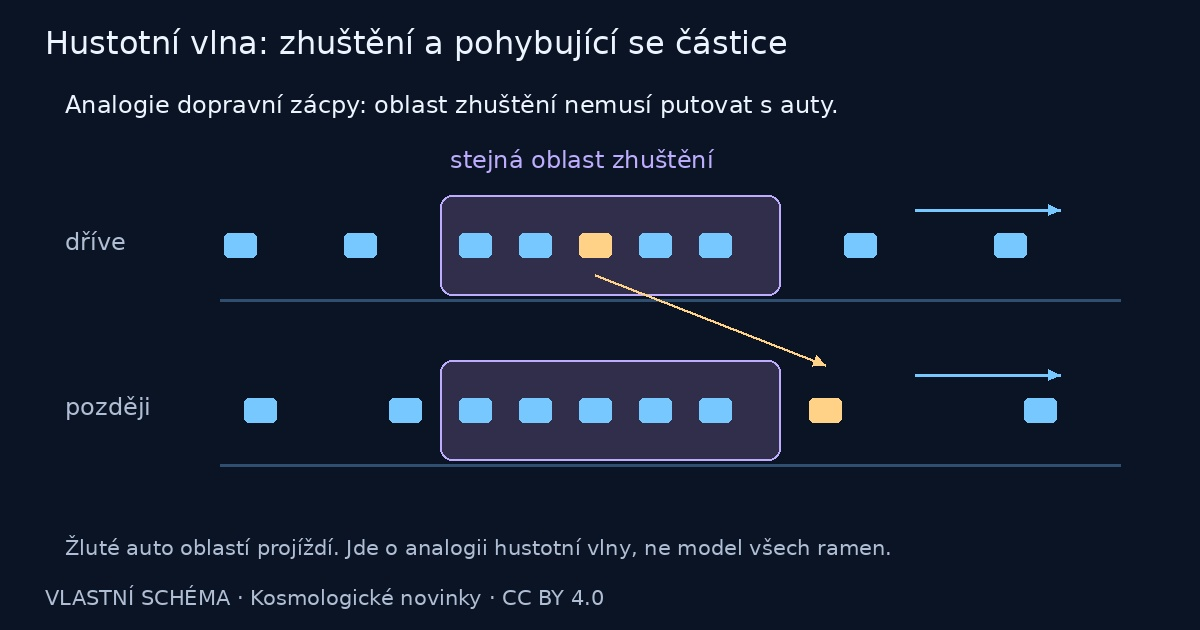
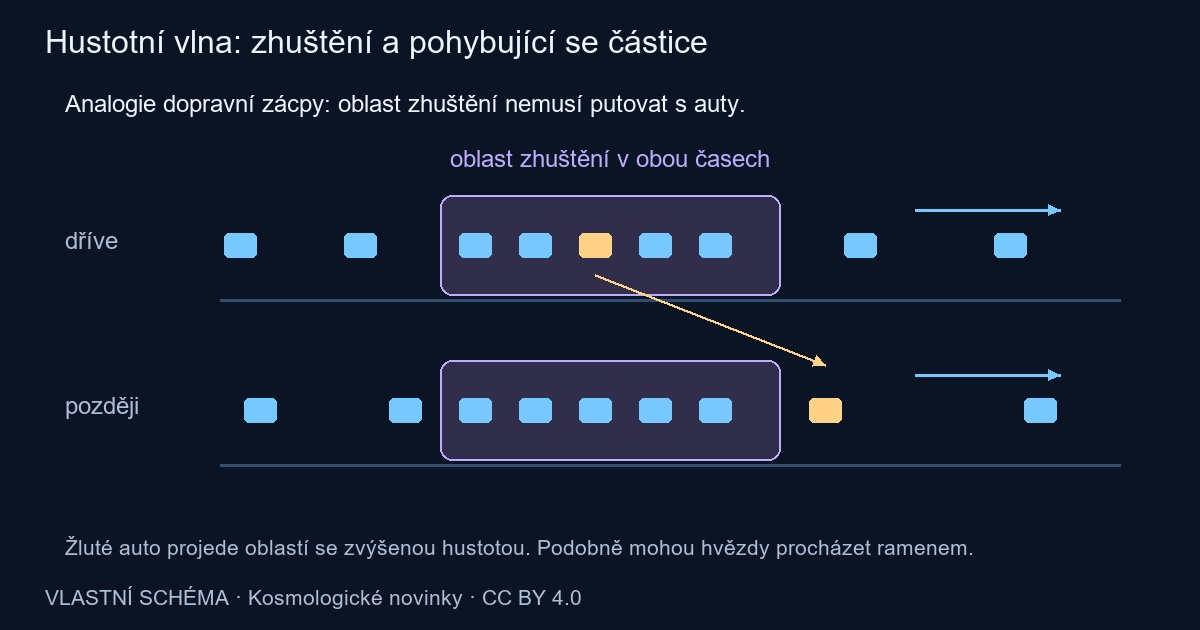
Add files via upload

diff --git a/assets/kosmopedie/galakticke-okoli.html b/assets/kosmopedie/galakticke-okoli.html
@@ -4,7 +4,7 @@
 </style></head><body><main><a href="/kosmopedie/ktere-galaxie-a-kupy-tvori-nase-kosmicke-okoli.html">← Zpět k tématu v Kosmopedii</a><h1>Naše galaktické okolí v prostoru</h1><p>Otáčejte mapou tažením myší či prstem. Přepínač měřítka přiblíží blízké průvodce Mléčné dráhy, Místní skupinu nebo širší okolí.</p>
 <div class="controls"><label>Měřítko <select id="view"><option value="satellite">Magellanova oblaka</option><option value="local" selected>Místní skupina</option><option value="wide">Širší okolí</option></select></label><label>Přiblížení <input id="zoom" type="range" min="0.6" max="2.2" step="0.1" value="1"></label><button id="left" aria-label="Otočit pohled doleva">← Otočit</button><button id="right" aria-label="Otočit pohled doprava">Otočit →</button><button id="reset">Výchozí pohled</button></div>
 <div class="canvas-box"><canvas id="map" role="img" aria-label="Prostorová mapa vybraných galaxií. Stejné objekty a vzdálenosti jsou uvedené v tabulce pod mapou."></canvas></div><p id="selection" aria-live="polite">Kliknutím na bod zobrazíte jeho název a vzdálenost.</p>
-<div class="legend"><span style="--c:#ffd287">Slunce / naše místo v Mléčné dráze</span><span style="--c:#8de0b1">Magellanova oblaka</span><span style="--c:#7dcfff">Další galaxie</span></div>
+<div class="legend"><span style="--c:#ffd287">Slunce v Mléčné dráze</span><span style="--c:#8de0b1">Magellanova oblaka</span><span style="--c:#7dcfff">Další galaxie</span></div>
 <p class="muted">Všechny osy mají stejné délkové měřítko. Jednotka: milion světelných let. X míří ke středu Mléčné dráhy, Y podél její roviny k délce 90°, Z k severnímu galaktickému pólu. Počátek souřadnic je u Slunce. Pohled zobrazuje polohy vybraných objektů; velikost značek je názorná. Skupiny zastupují uvedené referenční galaxie, kupu v Panně směr M87.</p>
 <p>Mapa ukazuje vybrané galaxie pro základní orientaci. Z přibližně stovky známých členů Místní skupiny zobrazuje tři velké galaxie a oba Magellanovy oblaky. Většinu menších členů jsme pro přehlednost vynechali, protože jejich body a popisky by se zejména kolem Mléčné dráhy a Andromedy překrývaly. Magellanova oblaka si můžete prohlédnout v samostatném přiblížení.</p><p>V širším okolí každou znázorněnou skupinu či kupu zastupuje uvedená referenční galaxie. <a href="https://blogs.helsinki.fi/hakkijen/files/2025/05/Virgo25_slides_JH.pdf">Zdroj přibližného počtu členů Místní skupiny</a>.</p><h2>Vybrané objekty a vzdálenosti</h2><div class="tablebox"><table><thead><tr><th>Objekt</th><th>Vzdálenost od Slunce (mil. sv. let)</th><th>Zdroj vzdálenosti</th></tr></thead><tbody id="rows"></tbody></table></div><p class="muted">Zaokrouhlené vzdálenosti a katalogové směry; podklad sestaven 30. 10. 2026. <a href="/data/local-universe-2026-10-30.json">Datový soubor a metodika</a>. Vlastní zobrazení Kosmologických novinek, CC BY 4.0.</p><noscript><p>Pro otáčení mapy zapněte JavaScript. Vzdálenosti i statické mapy jsou také v <a href="/kosmopedie/ktere-galaxie-a-kupy-tvori-nase-kosmicke-okoli.html">původním tématu</a>.</p></noscript></main>
 <script id="map-data" type="application/json">{"galaxies": [{"name": "Velký Magellanův oblak", "ra_deg": 80.894, "dec_deg": -69.756, "distance_mly": 0.163, "kind": "satellite", "xyz_mly": [0.024861657442173668, -0.13459901093712442, -0.08850991043212011], "distance_source": "https://svs.gsfc.nasa.gov/11293", "coordinate_source": "https://simbad.u-strasbg.fr/simbad/sim-id?Ident=Large+Magellanic+Cloud"}, {"name": "Malý Magellanův oblak", "ra_deg": 13.158333333333333, "dec_deg": -72.80027777777778, "distance_mly": 0.2, "kind": "satellite", "xyz_mly": [0.07752035237279574, -0.12024939067929719, -0.1397522057387905], "distance_source": "https://svs.gsfc.nasa.gov/11293", "coordinate_source": "https://simbad.u-strasbg.fr/simbad/sim-id?Ident=Small+Magellanic+Cloud"}, {"name": "Andromeda (M31)", "ra_deg": 10.6847, "dec_deg": 41.2687, "distance_mly": 2.5, "kind": "local", "xyz_mly": [-1.2034532128505475, 1.989149453563244, -0.9192305562567965], "distance_source": "https://science.nasa.gov/mission/hubble/science/explore-the-night-sky/hubble-messier-catalog/messier-31/", "coordinate_source": "https://simbad.u-strasbg.fr/simbad/sim-id?Ident=M31"}, {"name": "Galaxie v Trojúhelníku (M33)", "ra_deg": 23.4621, "dec_deg": 30.6602, "distance_mly": 3.0, "kind": "local", "xyz_mly": [-1.7675100119050247, 1.8554060270789865, -1.5599284700546558], "distance_source": "https://science.nasa.gov/mission/hubble/science/explore-the-night-sky/hubble-messier-catalog/messier-33/", "coordinate_source": "https://simbad.u-strasbg.fr/simbad/sim-id?Ident=M33"}, {"name": "M81 – okolí skupiny M81", "ra_deg": 148.8882, "dec_deg": 69.0653, "distance_mly": 11.6, "kind": "group", "xyz_mly": [-6.9178365604196355, 5.386975771496113, 7.595000286745091], "distance_source": "https://science.nasa.gov/mission/hubble/science/explore-the-night-sky/hubble-messier-catalog/messier-81/", "coordinate_source": "https://simbad.u-strasbg.fr/simbad/sim-id?Ident=M81"}, {"name": "Centaurus A – okolní skupina", "ra_deg": 201.3651, "dec_deg": -43.0191, "distance_mly": 12.0, "kind": "group", "xyz_mly": [7.201222730192238, -8.730836043493222, 3.989347460491544], "distance_source": "https://www.chandra.si.edu/photo/2023/cena/index.html", "coordinate_source": "https://simbad.u-strasbg.fr/simbad/sim-id?Ident=NGC5128"}, {"name": "NGC 253 – oblast Sochaře", "ra_deg": 11.888, "dec_deg": -25.288, "distance_mly": 11.4, "kind": "group", "xyz_mly": [-0.05197254631520831, 0.40170393691412154, -11.392801797560825], "distance_source": "https://www.chandra.cfa.harvard.edu/photo/2023/ngc253/", "coordinate_source": "https://simbad.u-strasbg.fr/simbad/sim-id?Ident=NGC253"}, {"name": "Kupa v Panně – směr M87", "ra_deg": 187.7059, "dec_deg": 12.3911, "distance_mly": 54.0, "kind": "cluster", "xyz_mly": [3.4387004620893475, -14.02348415228738, 52.033808541078535], "distance_source": "https://science.nasa.gov/asset/hubble/hubble-acs-image-of-100-virgo-cluster-galaxies/", "coordinate_source": "https://simbad.u-strasbg.fr/simbad/sim-id?Ident=M87"}]}</script><script>
@@ -17,9 +17,9 @@ function draw(){const w=canvas.clientWidth,h=canvas.clientHeight,dpr=devicePixel
 function project(v){const [x,y,z]=v,a=x*Math.cos(yaw)-y*Math.sin(yaw),b=x*Math.sin(yaw)+y*Math.cos(yaw);return [w*.5+a*scale,h*.50+(b*Math.sin(pitch)-z*Math.cos(pitch))*scale]}
 const occupied=[];ctx.lineWidth=1;ctx.font='13px system-ui';ctx.textBaseline='middle';ctx.strokeStyle='#43536b';
 for(let i=0;i<3;i++){const a=[0,0,0],b=[0,0,0];a[i]=-limit;b[i]=limit;const p=project(a),q=project(b);ctx.beginPath();ctx.moveTo(...p);ctx.lineTo(...q);ctx.stroke();ctx.fillStyle='#7dcfff';ctx.fillText(['X','Y','Z'][i],q[0]+5,q[1]);occupied.push({x:q[0]+3,y:q[1]-8,w:16,h:16});for(const t of [-.5,.5]){a[i]=limit*t;const u=project(a);ctx.fillStyle='#bac8db';ctx.fillText(fmt(limit*t),u[0]+4,u[1]+12);occupied.push({x:u[0]+2,y:u[1]+4,w:ctx.measureText(fmt(limit*t)).width+4,h:16})}}
-let rows=data.galaxies.filter(a=>view.value==='satellite'?a.kind==='satellite':view.value==='local'?['satellite','local'].includes(a.kind):['group','cluster'].includes(a.kind));rows=[{name:'Slunce / Mléčná dráha',xyz_mly:[0,0,0],distance_mly:0,kind:'origin'},...rows];points=[];
-for(const [i,a] of rows.entries()){const [x,y]=project(a.xyz_mly);ctx.strokeStyle='#263c55';ctx.beginPath();ctx.moveTo(w*.5,h*.5);ctx.lineTo(x,y);ctx.stroke();ctx.fillStyle=a.kind==='origin'?'#ffd287':a.kind==='satellite'?'#8de0b1':'#7dcfff';ctx.beginPath();ctx.arc(x,y,6,0,Math.PI*2);ctx.fill();points.push({x,y,a});ctx.font='14px system-ui';if(view.value==='local'&&a.kind==='satellite')continue;const label=a.name.replace('Slunce / Mléčná dráha','Naše místo').replace('Galaxie v Trojúhelníku (M33)','M33').replace('Velký Magellanův oblak','Velký oblak').replace('Malý Magellanův oblak','Malý oblak').split(' – ')[0];const tw=ctx.measureText(label).width;let lx,ly;outer:for(const rr of [24,48,72,96,120,144]){for(const sign of [1,-1]){for(const dy of [-rr,rr,0]){const xx=Math.max(8,Math.min(w-tw-8,x+sign*(rr+8)-(sign<0?tw:0))),yy=Math.max(38,Math.min(h-25,y+dy));if(occupied.some(b=>xx<b.x+b.w+8&&xx+tw+8>b.x&&yy-9<b.y+b.h+8&&yy+9>b.y))continue;lx=xx;ly=yy;break outer}}}if(lx===undefined){lx=8;ly=42+i*24}occupied.push({x:lx,y:ly-9,w:tw,h:18});ctx.strokeStyle='#61748b';ctx.beginPath();ctx.moveTo(x,y);ctx.lineTo(Math.max(lx,Math.min(lx+tw,x)),ly);ctx.stroke();ctx.fillStyle='#0b1424';ctx.fillRect(lx-3,ly-10,tw+6,20);ctx.fillStyle=a.kind==='origin'?'#ffd287':a.kind==='satellite'?'#8de0b1':'#7dcfff';ctx.fillText(label,lx,ly)}
+let rows=data.galaxies.filter(a=>view.value==='satellite'?a.kind==='satellite':view.value==='local'?['satellite','local'].includes(a.kind):['group','cluster'].includes(a.kind));rows=[{name:'Slunce v Mléčné dráze',xyz_mly:[0,0,0],distance_mly:0,kind:'origin'},...rows];points=[];
+for(const [i,a] of rows.entries()){const [x,y]=project(a.xyz_mly);ctx.strokeStyle='#263c55';ctx.beginPath();ctx.moveTo(w*.5,h*.5);ctx.lineTo(x,y);ctx.stroke();ctx.fillStyle=a.kind==='origin'?'#ffd287':a.kind==='satellite'?'#8de0b1':'#7dcfff';ctx.beginPath();ctx.arc(x,y,6,0,Math.PI*2);ctx.fill();points.push({x,y,a});ctx.font='14px system-ui';if(view.value==='local'&&a.kind==='satellite')continue;const label=(a.kind==='origin'?'Slunce':a.name).replace('Galaxie v Trojúhelníku (M33)','M33').replace('Velký Magellanův oblak','Velký oblak').replace('Malý Magellanův oblak','Malý oblak').split(' – ')[0];const tw=ctx.measureText(label).width;let lx,ly;outer:for(const rr of [24,48,72,96,120,144]){for(const sign of [1,-1]){for(const dy of [-rr,rr,0]){const xx=Math.max(8,Math.min(w-tw-8,x+sign*(rr+8)-(sign<0?tw:0))),yy=Math.max(38,Math.min(h-25,y+dy));if(occupied.some(b=>xx<b.x+b.w+8&&xx+tw+8>b.x&&yy-9<b.y+b.h+8&&yy+9>b.y))continue;lx=xx;ly=yy;break outer}}}if(lx===undefined){lx=8;ly=42+i*24}occupied.push({x:lx,y:ly-9,w:tw,h:18});ctx.strokeStyle='#61748b';ctx.beginPath();ctx.moveTo(x,y);ctx.lineTo(Math.max(lx,Math.min(lx+tw,x)),ly);ctx.stroke();ctx.fillStyle='#0b1424';ctx.fillRect(lx-3,ly-10,tw+6,20);ctx.fillStyle=a.kind==='origin'?'#ffd287':a.kind==='satellite'?'#8de0b1':'#7dcfff';ctx.fillText(label,lx,ly)}
 ctx.fillStyle='#edf4ff';ctx.font='14px system-ui';ctx.fillText('Osy: miliony světelných let',12,18);canvas.dataset.state=JSON.stringify(state())}
-canvas.addEventListener('pointerdown',e=>{drag={x:e.clientX,y:e.clientY,yaw,pitch};moved=false;canvas.setPointerCapture(e.pointerId)});canvas.addEventListener('pointermove',e=>{if(!drag)return;const dx=e.clientX-drag.x,dy=e.clientY-drag.y;if(Math.abs(dx)+Math.abs(dy)>4)moved=true;yaw=drag.yaw+dx*.008;pitch=Math.max(-1.3,Math.min(1.3,drag.pitch+dy*.008));draw()});canvas.addEventListener('pointerup',e=>{if(!moved){const box=canvas.getBoundingClientRect(),x=e.clientX-box.left,y=e.clientY-box.top;const hit=[...points].sort((a,b)=>Math.hypot(a.x-x,a.y-y)-Math.hypot(b.x-x,b.y-y))[0];if(hit&&Math.hypot(hit.x-x,hit.y-y)<25)document.getElementById('selection').textContent=hit.a.name+' — '+fmt(hit.a.distance_mly)+' milionu světelných let od nás.'}drag=null});canvas.addEventListener('pointercancel',()=>drag=null);
+canvas.addEventListener('pointerdown',e=>{drag={x:e.clientX,y:e.clientY,yaw,pitch};moved=false;canvas.setPointerCapture(e.pointerId)});canvas.addEventListener('pointermove',e=>{if(!drag)return;const dx=e.clientX-drag.x,dy=e.clientY-drag.y;if(Math.abs(dx)+Math.abs(dy)>4)moved=true;yaw=drag.yaw+dx*.008;pitch=Math.max(-1.3,Math.min(1.3,drag.pitch+dy*.008));draw()});canvas.addEventListener('pointerup',e=>{if(!moved){const box=canvas.getBoundingClientRect(),x=e.clientX-box.left,y=e.clientY-box.top;const hit=[...points].sort((a,b)=>Math.hypot(a.x-x,a.y-y)-Math.hypot(b.x-x,b.y-y))[0];if(hit&&Math.hypot(hit.x-x,hit.y-y)<25)document.getElementById('selection').textContent=hit.a.kind==='origin'?'Slunce v Mléčné dráze, počátek souřadnic.':hit.a.name+' — '+fmt(hit.a.distance_mly)+' milionu světelných let od nás.'}drag=null});canvas.addEventListener('pointercancel',()=>drag=null);
 view.addEventListener('change',()=>{zoom.value='1';draw()});zoom.addEventListener('input',draw);document.getElementById('left').onclick=()=>{yaw-=.25;draw()};document.getElementById('right').onclick=()=>{yaw+=.25;draw()};document.getElementById('reset').onclick=()=>{yaw=.60;pitch=.43;zoom.value='1';draw()};new ResizeObserver(draw).observe(canvas);draw();
 </script></body></html>

diff --git a/tools/kosmopedie_diagrams.py b/tools/kosmopedie_diagrams.py
@@ -108,8 +108,8 @@ def diagram(entry):
                 c.d.rounded_rectangle((x-16, y-12, x+16, y+12), radius=5, fill=GOLD if x==yellow else BLUE)
             c.arrow(915, y-35, 1060, y-35, BLUE)
         c.arrow(595, 275, 825, 365, GOLD)
-        c.text(450, 145, 'stejná oblast zhuštění', VIOLET, 24)
-        c.text(65, 535, 'Žluté auto oblastí projíždí. Jde o analogii hustotní vlny, ne model všech ramen.', MUTED, 21)
+        c.text(450, 145, 'oblast zhuštění v obou časech', VIOLET, 24)
+        c.text(65, 535, 'Žluté auto projede oblastí se zvýšenou hustotou. Podobně mohou hvězdy procházet ramenem.', MUTED, 21)
     elif k == 'edu-cluster-separation':
         c.text(65, 90, 'Po průletu dvou kup: horký plyn se zbrzdí, galaxie většinou projdou.', WHITE, 24)
         for cx in (255, 945):
@@ -187,13 +187,32 @@ def diagram(entry):
         rng=random.Random(24)
         for x,label,color in ((65,'Hvězdy',BLUE),(655,'Plyn',GOLD)):
             c.box(x,150,x+485,495,color);c.text(x+25,175,label,color,29)
-        for _ in range(35):
-            c.circle(rng.uniform(105,505),rng.uniform(250,380),3,BLUE,BLUE,1)
-        c.arrow(110,410,240,410,BLUE);c.arrow(490,235,360,235,VIOLET)
+        for cx, color in ((230, BLUE), (378, VIOLET)):
+            for _ in range(24):
+                x = cx + max(-116, min(116, rng.gauss(0, 48)))
+                y = 318 + max(-60, min(60, rng.gauss(0, 27)))
+                c.circle(x,y,3,color,color,1)
+        c.arrow(145,395,260,395,BLUE)
+        c.arrow(463,243,348,243,VIOLET)
         c.paragraph(90,435,'Velké rozestupy: přímé srážky hvězd jsou vzácné.',435,WHITE,22)
-        for cx in (825,970):c.d.ellipse((cx-90,260,cx+90,390),fill='#6e5037',outline=GOLD,width=3)
-        c.arrow(700,320,800,320,GOLD);c.arrow(1100,320,1000,320,GOLD)
-        c.paragraph(680,435,'Plyn se může stlačit, zahřát a podpořit vznik hvězd.',435,WHITE,22)
+        cloud = Image.new('RGBA', (410, 175))
+        pixels = cloud.load()
+        for y in range(175):
+            for x in range(410):
+                wobble = 0.85 + 0.10*math.sin(x/13+y/15) + 0.07*math.cos(x/9-y/12)
+                left = math.exp(-((x-122)/66)**2-((y-92)/40)**2)*wobble
+                right = math.exp(-((x-288)/66)**2-((y-84)/40)**2)*wobble
+                hot = math.exp(-((x-205)/28)**2-((y-88)/48)**2)
+                strength = min(1, 0.90*(left+right)+0.83*hot)
+                if strength > .02:
+                    mix = min(1, 1.6*hot)
+                    pixels[x,y] = (255,int(145+86*mix),int(82+108*mix),int(255*strength))
+        c.im.paste(cloud,(690,225),cloud)
+        c.arrow(706,317,774,317,GOLD)
+        c.arrow(1084,309,1020,309,GOLD)
+        c.line([(895,286),(930,234),(944,234)],MUTED,2)
+        c.text(951,220,'zahřátý plyn',GOLD,22)
+        c.paragraph(680,435,'Při střetu se plyn může stlačit a zahřát.',435,WHITE,22)
         c.text(65,535,'Jde o princip, nikoli předpověď osudu konkrétní dvojice galaxií.',MUTED,22)
     elif k == 'edu-hubble-routes':
         c.text(65,90,'Obě cesty určují dnešní H₀, nikoli dvě různé epochy.',WHITE,25)

diff --git a/tools/local_universe_diagrams.py b/tools/local_universe_diagrams.py
@@ -70,6 +70,7 @@ def diagram(entry):
   wide=kind=='localview-wide';limit=60 if wide else 3.5;ox,oy,scale=550,700,7.0 if wide else 100
   text(d,45,35,'Naše širší galaktické okolí' if wide else 'Místní skupina v prostoru',38);text(d,45,105,'Vybrané galaxie • prostorová projekce • počátek u Slunce',24,B)
   text(d,45,160,'Vzdálenosti na osách: miliony světelných let',25,W)
+  d.ellipse((46,218,60,232),fill=Y);text(d,72,210,'Slunce v Mléčné dráze',23,Y)
   def p(v):
    u,vv=project(v);return ox+scale*u,oy+scale*vv
   # Project orthogonal equal-scale axes, ticks remain attached to axes.
@@ -78,7 +79,7 @@ def diagram(entry):
    ticks=[-40,-20,20,40] if wide else [-2,-1,1,2]
    for t in ticks:
     v[axis]=t;x,y=p(v);d.ellipse((x-3,y-3,x+3,y+3),fill=B);text(d,x+5,y+5,str(t),19,M,width=65)
-  d.ellipse((ox-7,oy-7,ox+7,oy+7),fill=Y);text(d,ox-145,oy+15,'Mléčná dráha / my',23,Y,width=265)
+  d.ellipse((ox-7,oy-7,ox+7,oy+7),fill=Y);text(d,ox-145,oy+15,'Slunce',23,Y,width=265)
   rows=data['galaxies'] if wide else data['galaxies'][:4]
   if wide:rows=[x for x in rows if x['kind'] in ['group','cluster']]
   offsets=({'M81':(-180,-48),'Centaurus':(15,12),'NGC':(-185,25),'Kupa':(-145,-65)} if wide else {'Velký':(-260,-100),'Malý':(40,50),'Andromeda':(-240,-90),'Galaxie':(25,15)})
@@ -96,7 +97,7 @@ def diagram(entry):
    cox,coy,ss=490,1160,1500
    for a in data['galaxies'][:2]:
     u,v=project(a['xyz_mly']);x,y=cox+ss*u,coy+ss*v;d.line((cox,coy,x,y),fill=GRID,width=2);d.ellipse((x-6,y-6,x+6,y+6),fill=G);dx,dy=(18,-40) if a['name'].startswith('Velký') else (15,-40);text(d,x+dx,y+dy,a['name'],22,G,width=285)
-   d.ellipse((cox-7,coy-7,cox+7,coy+7),fill=Y);text(d,cox+15,coy-45,'My',23,Y,width=70);d.line((95,1280,245,1280),fill=B,width=3);text(d,85,1290,'0,1 mil. sv. let',21,B,width=290)
+   d.ellipse((cox-7,coy-7,cox+7,coy+7),fill=Y);text(d,cox+15,coy-45,'Slunce',23,Y,width=70);d.line((95,1280,245,1280),fill=B,width=3);text(d,85,1290,'0,1 mil. sv. let',21,B,width=290)
    text(d,45,1370,'X: k centru Galaxie • Y: podél roviny • Z: kolmo k rovině',23,M)
    text(d,45,1425,'Směry a vzdálenosti jsou převedeny do společných souřadnic.',22,M)
   else:

diff --git a/tools/cosmic_timeline_diagrams.py b/tools/cosmic_timeline_diagrams.py
@@ -24,7 +24,7 @@ PANELS={
 ('Vznik atomů a uvolnění reliktního světla','přibližně 380 tisíc let','Elektrony se vážou do atomů. Ubyde rozptylů a světlo může putovat mnohem volněji.',300000,500000),
 ('Temné věky, pak první hvězdy a galaxie','první hvězdy řádově po 100 až 200 milionech let','Gravitace zhušťuje plyn. Začíná hvězdná tvorba a rostou první galaxie; přesné začátky zkoumáme.',380000,300000000),
 ('Reionizace mezigalaktického vodíku','během prvních stovek milionů let až asi 1 miliardy','Záření prvních zdrojů postupně znovu odděluje elektrony od atomů v řídkém plynu.',150000000,1000000000)],note='První hvězdy nemají jediné přesně známé datum. Temné věky končí postupně v různých místech.',extra='Drobné časové úseky jsou zvýrazněny kroužkem; pás je vyznačen ve skutečném měřítku osy.'),
-'late':dict(title='Od prvních galaxií k dnešku',subtitle='Od 1 do 13,8 miliardy let',unit='miliardy let',lo=1,hi=13.8,log=False,ticks=[(1,'1'),(4,'4'),(7,'7'),(10,'10'),(13.8,'13,8')],rows=[
+'late':dict(title='Vývoj galaxií po první miliardě let',subtitle='Od 1 do 13,8 miliardy let',unit='miliardy let',lo=1,hi=13.8,log=False,ticks=[(1,'1'),(4,'4'),(7,'7'),(10,'10'),(13.8,'13,8')],rows=[
 ('Galaxie a kosmická síť dále rostou','od první miliardy let až do dneška','Přitéká plyn, vznikají hvězdy a galaxie se slučují. Mění se jejich velikost, složení i okolí.',1,13.8),
 ('Vrchol kosmické hvězdné tvorby','zhruba 2 až 4 miliardy let','V průměru vznikají hvězdy nejrychleji. Později celková rychlost jejich tvorby klesá.',2,4),
 ('Rozpínání se začíná zrychlovat','asi 7,7 miliardy let v základním modelu ΛCDM','Vliv temné energie převáží nad gravitačním zpomalováním. Jde o vývoj velkých měřítek.',7.7,7.7),
